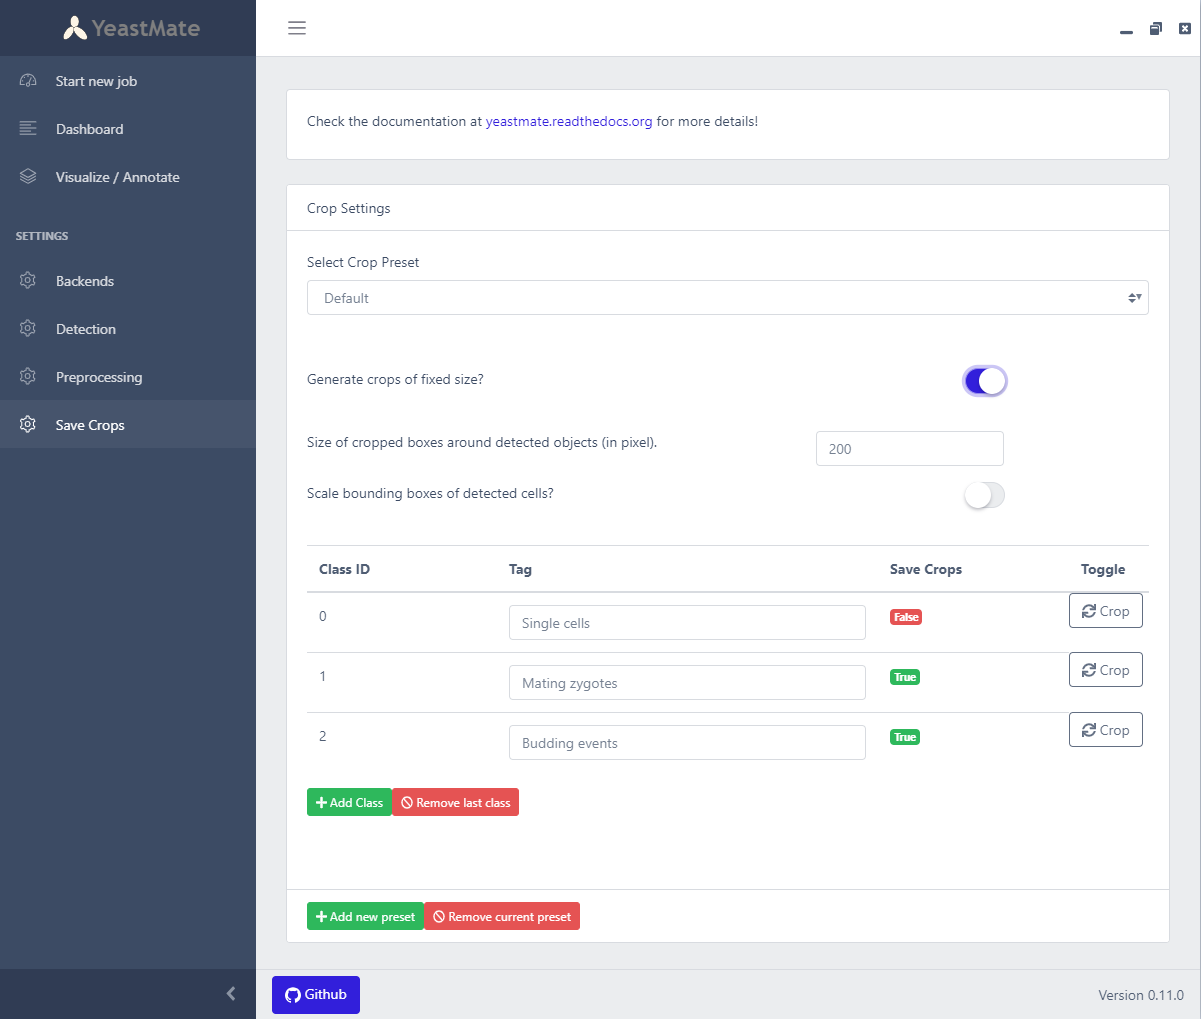
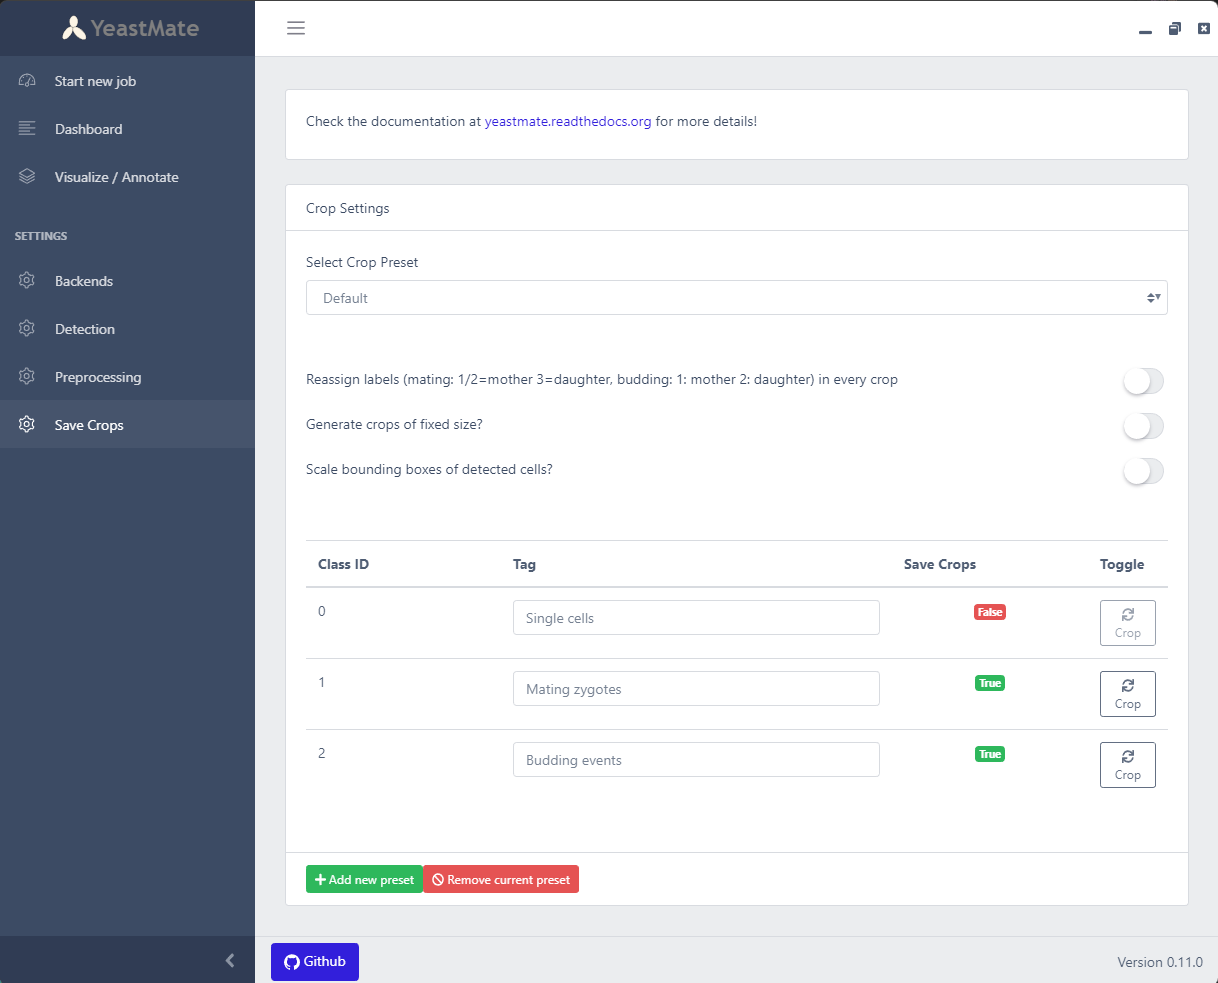
updated crop settings

diff --git a/docs/settings.md b/docs/settings.md
@@ -78,6 +78,18 @@ The detection job saves its results as a segmentation mask and a json file conta
 
 Settings include:
 
+* By default, cell labels in the cropped mask will be reassigned to: 
+
+    * mating 
+        * 1/2: mother 
+        * 3: daughter
+
+    * budding: 
+        * 1: mother 
+        * 2: daughter
+
+* If you wish to instead keep the original cell IDs from the uncropped mask, deselect this setting.
+
 * YeastMate will save the bounding boxes of the detected objects exactly around the respective segmentation. You can set a static crop size for all objects.
 
 * If you wish to instead just scale your size of the crop by a factor, you can set this factor here. As it will automatically crop exactly around the object, this setting can make the crops nicer.
